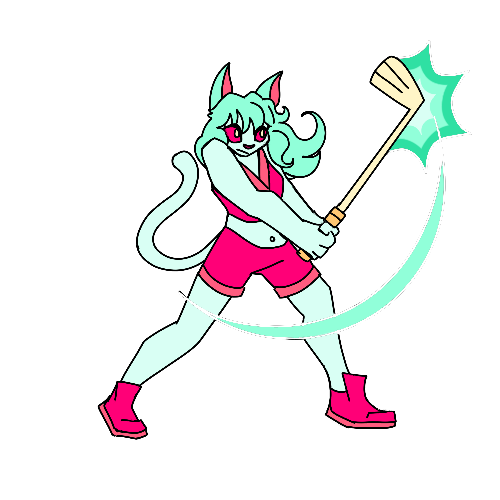
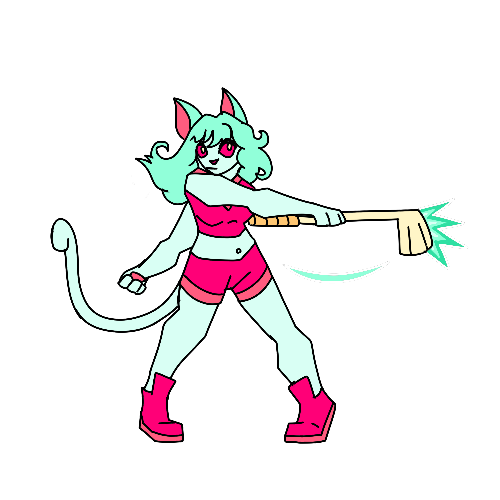
heavy attack anim

Changed region(s): [[0.09, 0.09, 0.93, 0.9], [0.39, 0.66, 0.42, 0.69], [0.36, 0.69, 0.39, 0.72]]

diff --git a/player.py b/player.py
@@ -24,8 +24,10 @@ class Player(EntityMovable):
         self.canAttack = True
         self.healthbar = pygame.transform.scale(pygame.image.load("./assets/imgs/healthbar.png").convert_alpha(), (300, 100))
 
-        self.sprite = [{"idler": pygame.image.load("./assets/imgs/cat1idle.png").convert_alpha(), "airr": pygame.image.load("./assets/imgs/cat1air.png").convert_alpha(), "attackr": pygame.image.load("./assets/imgs/cat1attack.png").convert_alpha(), "charger": pygame.image.load("./assets/imgs/cat1charge.png").convert_alpha(), "hitr": pygame.image.load("./assets/imgs/cat1hit.png").convert_alpha()},
-                       {"idler": pygame.image.load("./assets/imgs/cat2idle.png").convert_alpha(), "airr": pygame.image.load("./assets/imgs/cat2air.png").convert_alpha(), "attackr": pygame.image.load("./assets/imgs/cat2attack.png").convert_alpha(), "charger": pygame.image.load("./assets/imgs/cat2charge.png").convert_alpha(), "hitr": pygame.image.load("./assets/imgs/cat2hit.png").convert_alpha()}]#load in drawn frames
+        self.sprite = [{}, {}]
+        for s in ["idle", "air", "charge", "attack", "hit", "heavy", "hvcharge"]:
+            for c in [0, 1]:
+                self.sprite[c].update({s + "r": pygame.image.load("./assets/imgs/cat" + str(c+1) + s + ".png").convert_alpha()})
 
         for n in [0, 1, 2, 3, 4]:
             self.sprite[0].update({"run" + str(n) + "r": pygame.image.load("./assets/imgs/cat1run" + str(n) + ".png").convert_alpha()})
@@ -35,7 +37,7 @@ class Player(EntityMovable):
             self.sprite[1].update({"run" + str(n) + "r": pygame.image.load("./assets/imgs/cat2run" + str(n) + ".png").convert_alpha()})
             self.sprite[1].update({"run" + str(5-n) + "l": pygame.transform.flip(self.sprite[1]["run" + str(n) + "r"], True, False)})
 
-        for s in ["idle", "air", "charge", "attack", "hit"]:
+        for s in ["idle", "air", "charge", "attack", "hit", "heavy", "hvcharge"]:
             for c in [0, 1]:
                 self.sprite[c].update({s + "l": pygame.transform.flip(self.sprite[c][s+"r"], True, False)})
                 #mirrors frames
@@ -98,7 +100,7 @@ class Player(EntityMovable):
                 if self.stun<=0:
                     entities['hitbox' + str(self.state.hitboxes)] = Hitbox(self.state.hitboxes, attacks[self.attackType], self.state, self, entities["p"+str(int(2-self.id))])
                     self.state.hitboxes+=1
-                    self.mystate = "attack"
+                    self.mystate = "heavy" if self.attackType == "heavy" else "attack"
                     self.attacking = COOLDOWNTIME * (2 if self.attackType == "heavy" else 1)
 
 

diff --git a/handle_input.py b/handle_input.py
@@ -54,7 +54,7 @@ def handlePress(event, timer, player, control, state, enemy, entities):
                 player.lasthitframe = frame
             else:
                 player.attackType = "heavy"
-            player.mystate = "charge"
+            player.mystate = "hvcharge" if player.attackType == "heavy" else "charge"
             player.charging = CHARGETIME
             player.canAttack = False
 
@@ -75,5 +75,3 @@ def handleMove(player, control, event, timer, state, enemy, entities):
         handlePress(event, timer, player, control, state, enemy, entities)
     if event.type == pygame.KEYUP:
         handleRelease(event, player, control)
-
-
